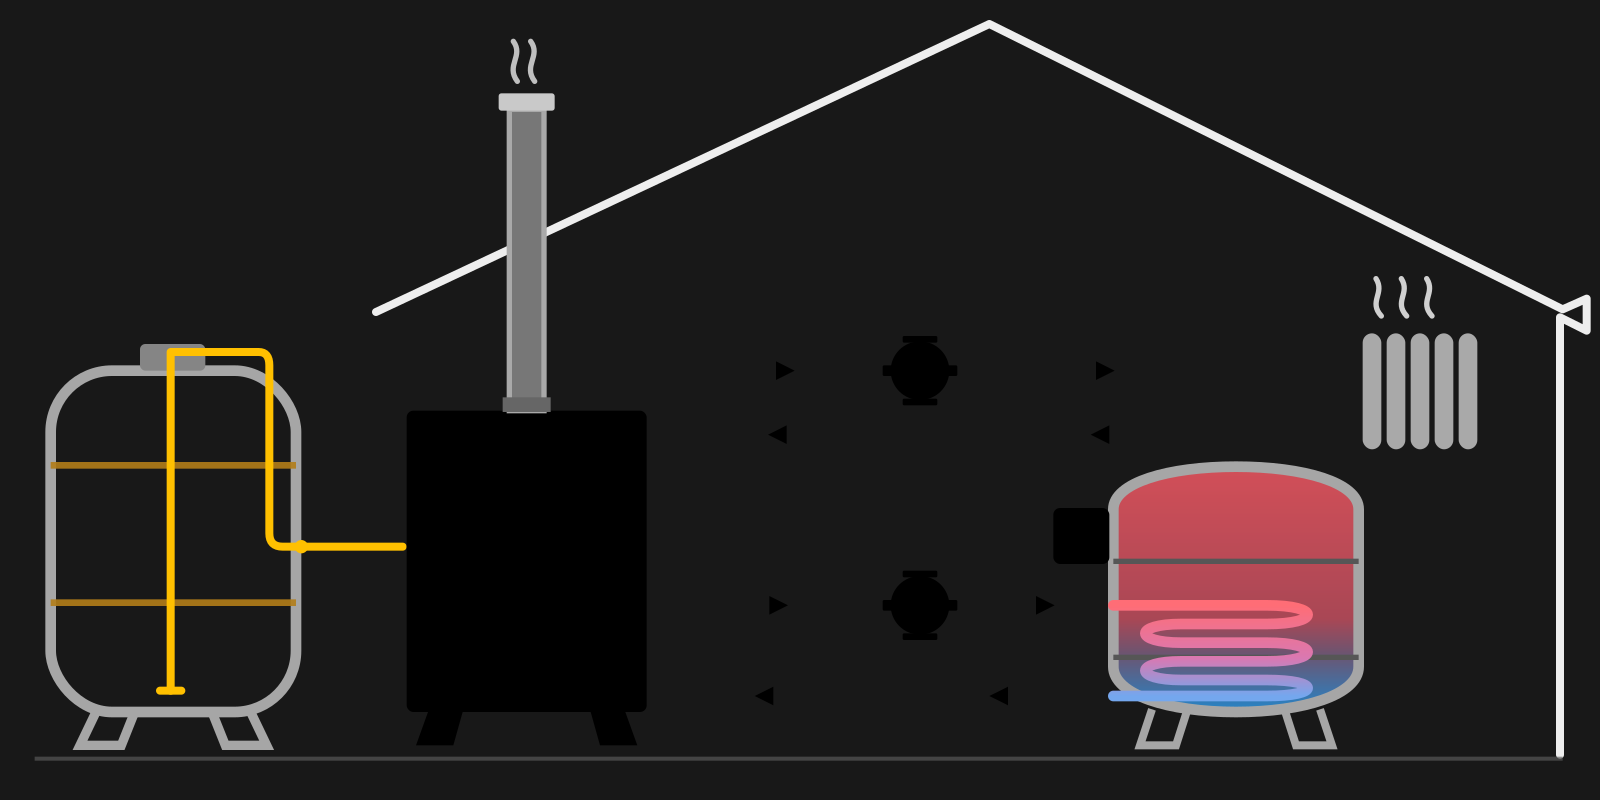
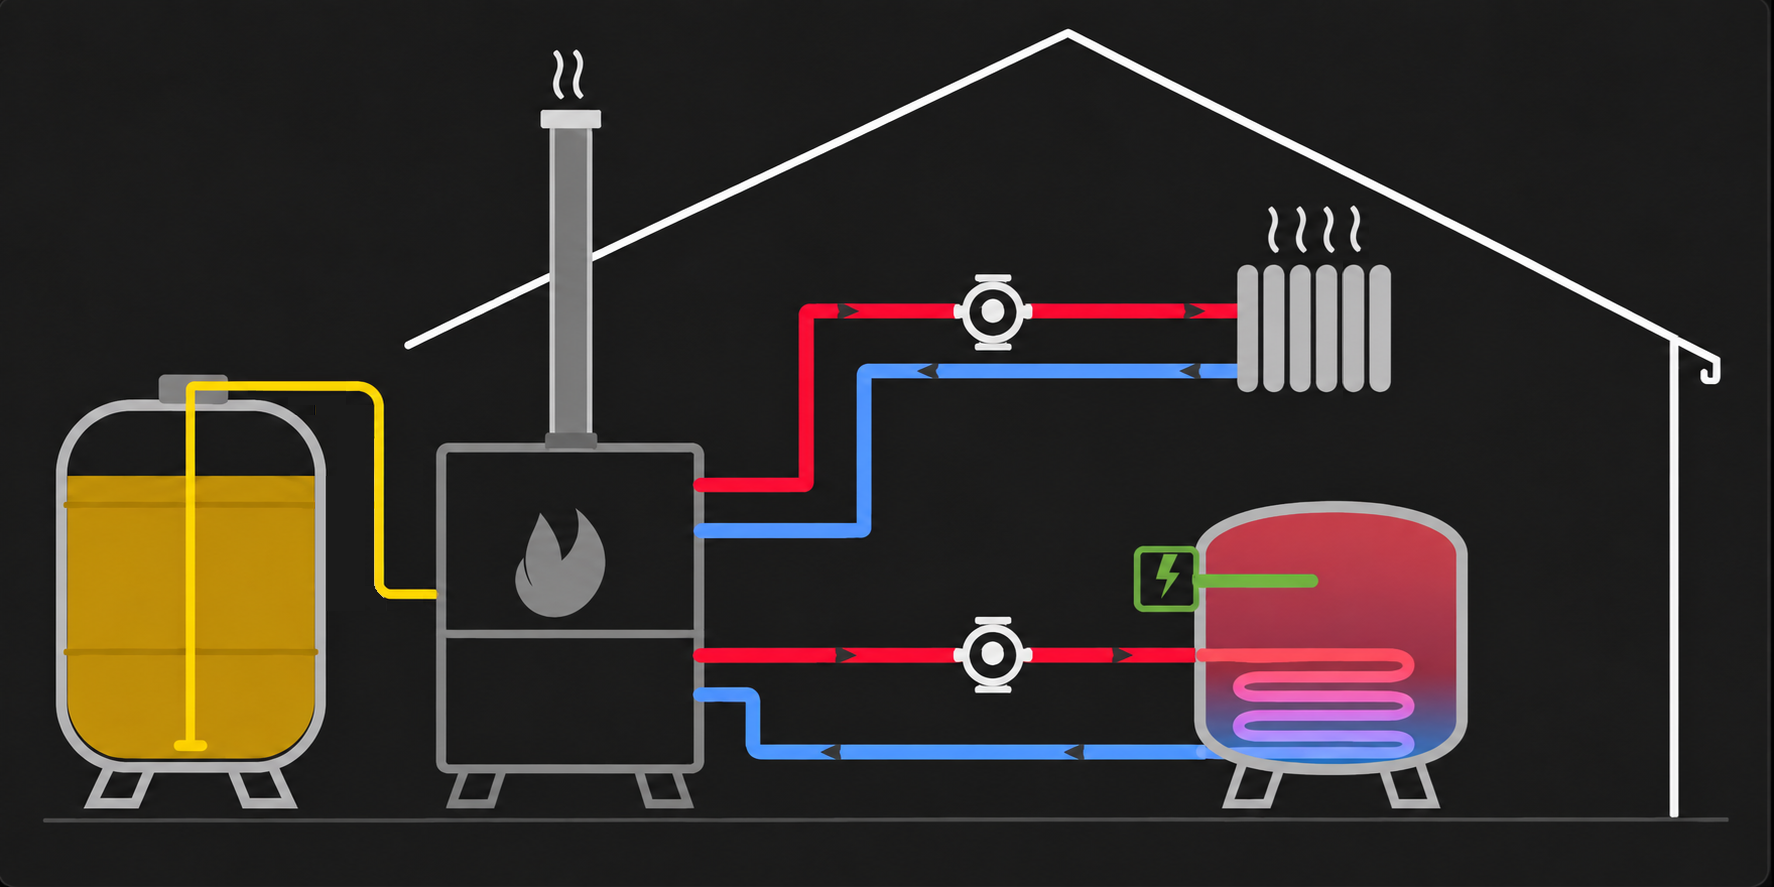
Add files via upload

Changed region(s): [[0.0312, 0.0312, 1.0, 0.9688], [0.2188, 0.375, 0.25, 0.4062]]

diff --git a/lovelace-boiler-card.js b/lovelace-boiler-card.js
@@ -7,7 +7,7 @@
  * Card type: custom:lovelace-boiler-card
  */
 
-const BOILER_CARD_VERSION = "0.5.1";
+const BOILER_CARD_VERSION = "0.5.2";
 
 const DEFAULTS = {
   title: "",
@@ -544,7 +544,7 @@ class LovelaceBoilerCard extends HTMLElement {
               <path d="M38 349 H222 M38 452 H222" stroke="#b37e19" stroke-width="5" opacity=".9"></path>
               <rect x="105" y="258" width="49" height="20" rx="4" fill="#858585"></rect>
               <path d="M72 534 l-12 25 h31 l10-25 M188 534 l12 25 h-31 l-10-25" fill="none" stroke="#a6a6a6" stroke-width="7"></path>
-              <path d="M128 264 V518 M128 264 H264 V410 H302" fill="none" stroke="#ffc000" stroke-width="6" stroke-linecap="round" stroke-linejoin="round"></path>
+              <path d="M128 264 V518 M128 264 H206 Q220 264 220 278 V410 H302" fill="none" stroke="#ffc000" stroke-width="6" stroke-linecap="round" stroke-linejoin="round"></path>
               <path d="M120 518 H136" stroke="#ffc000" stroke-width="6" stroke-linecap="round"></path>
             </g>
 
@@ -566,11 +566,11 @@ class LovelaceBoilerCard extends HTMLElement {
             </g>
 
             <path class="hot" d="M485 334 H560 V278 H1018" fill="none"></path>
-            <path class="cold" d="M1018 326 H485" fill="none"></path>
+            <path class="cold" d="M1018 326 H595 V362 H485" fill="none"></path>
             <polygon class="arrow-hot" points="582,271 596,278 582,285"></polygon>
             <polygon class="arrow-hot" points="822,271 836,278 822,285"></polygon>
             <polygon class="arrow-cold" points="832,319 818,326 832,333"></polygon>
-            <polygon class="arrow-cold" points="590,319 576,326 590,333"></polygon>
+            <polygon class="arrow-cold" points="605,355 591,362 605,369"></polygon>
 
             <g id="obj-heating-pump" class="pump-off" data-entity-key="heating_pump" tabindex="0" transform="translate(690 278)">
               <rect class="pump-shape" x="-28" y="-4" width="15" height="8" rx="1"></rect>
@@ -611,8 +611,7 @@ class LovelaceBoilerCard extends HTMLElement {
             <g>
               <rect x="835" y="350" width="184" height="184" fill="url(#dhw-fill-gradient)" clip-path="url(#dhw-tank-clip)"></rect>
               <path d="M835 382 C835 362 876 350 927 350 C978 350 1019 362 1019 382 V500 C1019 521 978 534 927 534 C876 534 835 521 835 500 Z" fill="none" stroke="#a6a6a6" stroke-width="8"></path>
-              <path d="M835 421 H1019 M835 493 H1019" stroke="#565656" stroke-width="4"></path>
-              <path d="M864 532 l-9 27 h27 l8-25 M990 532 l9 27 h-27 l-8-25" stroke="#a6a6a6" stroke-width="6" fill="none"></path>
+                            <path d="M864 532 l-9 27 h27 l8-25 M990 532 l9 27 h-27 l-8-25" stroke="#a6a6a6" stroke-width="6" fill="none"></path>
               <path d="M835 454 H950 C991 454 991 468 950 468 H886 C850 468 850 482 886 482 H950 C991 482 991 496 950 496 H886 C850 496 850 510 886 510 H950 C991 510 991 522 950 522 H835" fill="none" stroke="url(#coil-gradient)" stroke-width="8" stroke-linecap="round" stroke-linejoin="round"></path>
             </g>
 

diff --git a/README.md b/README.md
@@ -1,6 +1,6 @@
 # Lovelace Boiler Card
 
-**Current version: 0.5.1**
+**Current version: 0.5.2**
 
 A single-SVG Home Assistant Lovelace card for an oil-fired boiler installation with one radiator circuit and one parallel domestic-hot-water circuit.
 
@@ -35,7 +35,7 @@ In HACS:
 The resource is normally:
 
 ```text
-/hacsfiles/lovelace-boiler-card/lovelace-boiler-card.js?v=0.5.1
+/hacsfiles/lovelace-boiler-card/lovelace-boiler-card.js?v=0.5.2
 ```
 
 If your browser or Home Assistant keeps an older JavaScript file in cache, force a reload or temporarily add the version query string shown above.
@@ -164,4 +164,4 @@ By default, `Veille` colours the boiler outline green. Override with `boiler_sta
 
 ## 0.5 visual baseline
 
-Version 0.5.1 uses the approved no-text SVG layout as the visual baseline. Values and labels can now be reintroduced incrementally.
+Version 0.5.2 uses the approved no-text SVG layout as the visual baseline. Values and labels can now be reintroduced incrementally.

diff --git a/CHANGELOG.md b/CHANGELOG.md
@@ -1,6 +1,6 @@
 # Changelog
 
-## 0.5.1
+## 0.5.2
 - Adjusted the oil suction pipe to match the approved layout: centered dip tube inside the tank, external drop centered in the gap between tank and boiler, then horizontal run into the boiler.
 - Removed the extra yellow junction dot so the fuel line matches the approved visual baseline.
 
